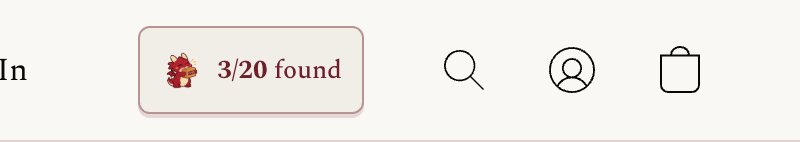
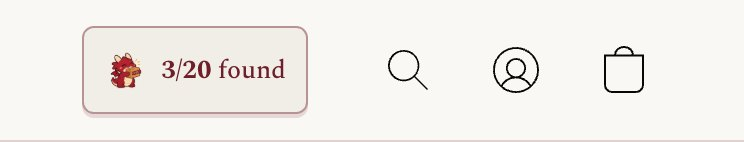
Tighten the guide's composition and drop the counter tooltip
- Every screen: label on top, a same-height picture zone, then the
  headline, so headlines sit at the same spot as you page through.
- Progress dots get their own centered row above Back and the primary
  button, so they never drift and every screen is the same height.
- The 'Tap here' pill stays still; only its arrow moves, inside the pill.
- Recropped the header screenshot to start cleanly at the counter.
- Removed the hover tooltip on the header counter; the guide has it all.

diff --git a/easter-hunt/hunt.css b/easter-hunt/hunt.css
@@ -55,8 +55,7 @@
 .hunt-counter-trigger>.hunt-sticker { width:22px; height:22px; }
 .hunt-counter-count { font-variant-numeric:tabular-nums; font-weight:700; }
 .hunt-counter-preview { font:600 9px/1.3 Arial,sans-serif; text-transform:uppercase; letter-spacing:.06em; color:#655b55; }
-.hunt-counter-preview[hidden],.hunt-counter-tooltip[hidden],.hunt-tour-package[hidden] { display:none!important; }
-.hunt-counter-tooltip { position:fixed; z-index:2147483001; width:min(300px,calc(100vw - 24px)); padding:14px 16px; border:1px solid #d9c9b7; border-radius:8px; color:#241a17; background:#faf8f4; box-shadow:0 8px 24px #24101726; font:400 14px/1.5 Georgia,serif; pointer-events:none; }
+.hunt-counter-preview[hidden],.hunt-tour-package[hidden] { display:none!important; }
 .hunt-counter-local { position:fixed; top:12px; right:12px; z-index:40; margin:0; }
 .hunt-tour,.hunt-tour * { box-sizing:border-box; }
 .hunt-tour:focus { outline:none; }
@@ -107,7 +106,12 @@
 /* Four-screen guide */
 .hunt-intro-dialog { overflow-x:hidden; }
 .hunt-steps { display:grid; }
-.hunt-step { grid-area:1/1; visibility:hidden; opacity:0; }
+.hunt-step { grid-area:1/1; display:flex; flex-direction:column; visibility:hidden; opacity:0; }
+.hunt-step>.hunt-eyebrow { margin:0 0 16px; }
+/* Same-height picture zone on every screen, so the headlines line up as you page through. */
+.hunt-hero { --hero:200px; display:grid; place-items:center; height:var(--hero); margin:0 0 24px; }
+.hunt-hero>* { margin:0!important; }
+.hunt-step h2 { margin-bottom:12px; }
 .hunt-step.is-active { visibility:visible; opacity:1; }
 .hunt-step.from-next { animation:hunt-step-next .42s cubic-bezier(.22,1,.36,1) both; }
 .hunt-step.from-prev { animation:hunt-step-prev .42s cubic-bezier(.22,1,.36,1) both; }
@@ -116,8 +120,9 @@
 .hunt-step.is-active>:nth-child(4) { animation-delay:.15s; } .hunt-step.is-active>:nth-child(5) { animation-delay:.2s; }
 .hunt-step-art { position:relative; display:grid; place-items:center; width:112px; height:112px; margin:0 auto 12px; }
 .hunt-step-art .hunt-sticker { width:100%; height:100%; }
+.hunt-hero .hunt-intro-seal { width:160px; height:160px; }
 .hunt-step.is-active .hunt-intro-seal .hunt-sticker { animation:hunt-bob 3.2s .5s ease-in-out infinite; }
-.hunt-how { display:grid; grid-template-columns:repeat(3,1fr); gap:10px; margin:22px 0 18px; padding:0; list-style:none; }
+.hunt-how { display:grid; grid-template-columns:repeat(3,1fr); gap:10px; width:100%; padding:0; list-style:none; }
 .hunt-how li { display:flex; flex-direction:column; align-items:center; gap:4px; padding:16px 8px 14px; border:1px solid #e3d8ca; border-radius:12px; background:#fffdf9; font-size:13px; line-height:1.35; color:var(--hunt-muted); }
 .hunt-how strong { color:var(--hunt-maroon); font:400 19px/1.2 var(--rrhs-font-title,"Playfair Display"),Georgia,serif; }
 .hunt-how-icon { display:grid; place-items:center; width:46px; height:46px; margin-bottom:6px; border-radius:50%; background:var(--hunt-cream); color:var(--hunt-maroon); }
@@ -127,7 +132,7 @@
 .hunt-step.is-active .hunt-how li:nth-child(2) .hunt-how-icon svg { animation:hunt-tap 1.6s .8s ease-in-out infinite; }
 /* Screen 3: one big magnifier, centered as a whole. The glass drops in once and stays.
    The resting state is the finished look, so reduced motion shows it too. */
-.hunt-step-art.hunt-art-found { width:220px; height:220px; margin:18px auto 26px; }
+.hunt-step-art.hunt-art-found { width:var(--hero); height:var(--hero); }
 .hunt-art-halo { position:absolute; left:6%; top:6%; width:66%; height:66%; border-radius:50%; background:radial-gradient(circle,#f3e7d3 0%,#f3e7d300 70%); transform:scale(1.35); }
 .hunt-art-found .hunt-sticker { position:absolute; left:22.5%; top:22.5%; width:33%!important; height:33%!important; transform:scale(1.6); filter:grayscale(1); opacity:.6; }
 .hunt-art-found .hunt-found-lens { display:block; position:absolute; inset:0; width:100%; height:100%; transform-origin:39.3% 39.3%; filter:drop-shadow(0 6px 12px #24101733); }
@@ -136,16 +141,17 @@
 @keyframes hunt-art-grey { from { filter:none; opacity:1; } }
 @keyframes hunt-art-lens { from { opacity:0; transform:translate(22%,22%) scale(.6) rotate(-24deg); } }
 /* Screen 4: the real top-right of the site, with the counter circled */
-.hunt-where { position:relative; margin:0 -12px 22px; padding:0 0 30px; }
+.hunt-hero>.hunt-where { position:relative; width:calc(100% + 24px); padding:0 0 34px; }
 .hunt-where img { display:block; width:100%; height:auto; border:1px solid #d9c9b7; border-radius:10px; box-shadow:0 10px 30px #24101724; }
 .hunt-where-shot { position:relative; display:block; container-type:inline-size; }
 /* The live count, laid over the number in the screenshot */
-.hunt-where-count { position:absolute; left:26.9%; top:38%; width:7.1%; height:24%; display:flex; align-items:center; background:#f1eee8; color:#6e1f2a; font:700 2.75cqw/1 Georgia,serif; font-variant-numeric:lining-nums tabular-nums; white-space:nowrap; }
-.hunt-where-ring { position:absolute; left:calc(17.2% - 6px); top:calc(18.3% - 6px); width:calc(28.3% + 12px); height:calc(62% + 12px); border:3px solid #c6a169; border-radius:12px; pointer-events:none; }
-.hunt-where-tag { position:absolute; left:31.35%; bottom:0; transform:translateX(-50%); display:inline-flex; align-items:center; gap:4px; padding:3px 10px 3px 6px; border-radius:99px; background:var(--hunt-maroon); color:var(--hunt-paper); font:600 12px/1.4 Arial,sans-serif; white-space:nowrap; }
+.hunt-where-count { position:absolute; left:21.5%; top:38%; width:7.3%; height:24%; display:flex; align-items:center; justify-content:center; background:#f1eee8; color:#6e1f2a; font:700 2.7cqw/1 Georgia,serif; letter-spacing:-.01em; font-variant-numeric:lining-nums tabular-nums; white-space:nowrap; }
+.hunt-where-ring { position:absolute; left:calc(10.9% - 6px); top:calc(18.3% - 6px); width:calc(30.5% + 12px); height:calc(62% + 12px); border:3px solid #c6a169; border-radius:12px; pointer-events:none; }
+.hunt-where-tag { position:absolute; left:26.15%; bottom:0; transform:translateX(-50%); display:inline-flex; align-items:center; gap:5px; padding:4px 11px 4px 8px; border-radius:99px; background:var(--hunt-maroon); color:var(--hunt-paper); font:600 12px/1.4 Arial,sans-serif; white-space:nowrap; }
 .hunt-where-tag svg { width:14px; height:14px; }
 .hunt-step.is-active .hunt-where-ring { animation:hunt-ring 1.8s .5s ease-out infinite; }
-.hunt-step.is-active .hunt-where-tag svg { animation:hunt-nudge-up 1.4s .4s ease-in-out infinite; }
+.hunt-step.is-active .hunt-where-tag svg { animation:hunt-arrow-bob 1.4s .4s ease-in-out infinite; }
+@keyframes hunt-arrow-bob { 0%,100% { transform:translateY(2.5px); } 50% { transform:translateY(-2.5px); } }
 @keyframes hunt-ring { 0% { box-shadow:0 0 0 0 #c6a169bb; } 70%,100% { box-shadow:0 0 0 12px #c6a16900; } }
 /* Dev mode badge */
 .hunt-dev-badge { position:fixed; left:12px; bottom:12px; z-index:2147483000; display:flex; flex-wrap:wrap; align-items:center; gap:4px 10px; max-width:calc(100vw - 24px); padding:8px 8px 8px 14px; border:2px dashed #b28a48; border-radius:10px; background:#fff8e8; color:#3c1720; box-shadow:0 6px 18px #24101733; font:400 13px/1.3 Arial,sans-serif; }
@@ -153,14 +159,16 @@
 .hunt-dev-badge button { min-height:32px; padding:4px 10px; border:1px solid #6e1f2a55; border-radius:6px; background:#fff; color:#6e1f2a; font:600 12px/1 Arial,sans-serif; cursor:pointer; }
 .hunt-dev-badge button:hover { background:#f1e6d4; }
 .hunt-dialog .hunt-dev-code code { display:inline-block; margin:6px 0; padding:4px 10px; border:1px dashed #b28a48; border-radius:4px; background:#fff; color:#6e1f2a; font:700 15px/1.3 ui-monospace,Menlo,monospace; letter-spacing:.04em; }
-.hunt-step-nav { display:flex; align-items:center; justify-content:space-between; gap:12px; margin-top:22px; }
+/* Dots on their own centered row; Back and the primary button below, the same on every screen. */
+.hunt-step-nav { display:grid; grid-template-columns:auto 1fr; grid-template-areas:'dots dots' 'back next'; align-items:center; gap:18px 12px; margin-top:24px; }
+.hunt-dots { grid-area:dots; justify-self:center; } .hunt-step-back { grid-area:back; justify-self:start; } .hunt-step-nav .hunt-step-next { grid-area:next; justify-self:end; }
 .hunt-step-back { display:inline-flex; align-items:center; gap:6px; min-height:44px; padding:0 8px; border:0; background:none; color:var(--hunt-maroon); font:600 15px/1 Georgia,serif; cursor:pointer; }
 .hunt-step-back .hunt-arrow { width:18px; height:18px; }
 .hunt-dots { display:flex; gap:6px; }
 .hunt-dots i { width:7px; height:7px; border-radius:99px; background:#d9c9b7; transition:width .35s cubic-bezier(.22,1,.36,1),background .35s; }
 .hunt-dots i.is-active { width:22px; background:var(--hunt-maroon); }
 .hunt-step-nav .hunt-step-next { width:auto; white-space:nowrap; min-width:118px; transition:min-width .4s cubic-bezier(.22,1,.36,1),transform .2s,filter .2s; }
-.hunt-step-nav .hunt-step-next.hunt-begin { min-width:210px; background:linear-gradient(100deg,var(--hunt-maroon) 30%,#93303f 50%,var(--hunt-maroon) 70%) 0 0/250% 100%; animation:hunt-shine 2.4s ease-in-out infinite; }
+.hunt-step-nav .hunt-step-next.hunt-begin { min-width:220px; background:linear-gradient(100deg,var(--hunt-maroon) 30%,#93303f 50%,var(--hunt-maroon) 70%) 0 0/250% 100%; animation:hunt-shine 2.4s ease-in-out infinite; }
 .hunt-intro-dialog .hunt-confetti i { left:var(--ox,50%); top:var(--oy,85%); width:7px; height:11px; border-radius:2px; }
 .hunt-intro-dialog .hunt-confetti i:nth-child(3n) { background:#c6a169; width:9px; height:9px; border-radius:50%; }
 .hunt-intro-dialog .hunt-confetti i { animation-delay:calc(var(--i)*.025s); animation-duration:1.1s; }
@@ -179,5 +187,5 @@
 @keyframes hunt-begin-pop { 0% { transform:none; } 40% { transform:scale(1.05); } 100% { transform:none; } }
 @keyframes hunt-intro-leave { to { opacity:0; transform:translateY(-14px) scale(.94); } }
 @keyframes hunt-counter-pulse { 0% { box-shadow:0 0 0 0 #c6a169cc; } 100% { box-shadow:0 0 0 14px #c6a16900; } }
-@media(max-width:420px) { .hunt-how { gap:6px; } .hunt-how li { padding:12px 4px; font-size:12px; } .hunt-step-nav.is-last { flex-wrap:wrap; } .hunt-step-nav.is-last .hunt-step-next { order:-1; flex:1 1 100%; min-width:0; } .hunt-step-nav .hunt-step-next { min-width:0; } }
+@media(max-width:420px) { .hunt-how { gap:6px; } .hunt-how li { padding:12px 4px; font-size:12px; } .hunt-hero { --hero:168px; } .hunt-hero .hunt-intro-seal { width:132px; height:132px; } .hunt-step-nav .hunt-step-next { min-width:0; } }
 @media(prefers-reduced-motion:reduce) { .hunt-egg,.hunt-dialog,.hunt-dialog *,.hunt-tour *,.hunt-counter * { animation:none!important; transition:none!important; } .hunt-confetti { display:none; } }

diff --git a/easter-hunt/experience.js b/easter-hunt/experience.js
@@ -6,9 +6,9 @@
   const local = ['localhost', '127.0.0.1', '[::1]'].includes(location.hostname);
   const motion = matchMedia('(prefers-reduced-motion: reduce)');
   const stickerImage = window.RRHS_EASTER_HUNT.stickerImage;
-  const headerGuide = new URL('hunt-header-guide.jpg?v=1', document.currentScript.src).href;
+  const headerGuide = new URL('hunt-header-guide.jpg?v=2', document.currentScript.src).href;
   const arrowIcon = window.RRHS_EASTER_HUNT.arrowIcon;
-  let counter, tooltip, tour, intro, timer, frame, scheduled = false, oldOverflow, returnFocus, header;
+  let counter, tour, intro, timer, frame, scheduled = false, oldOverflow, returnFocus, header;
   let data = window.RRHS_EASTER_HUNT?.getAvailability(), suspended = 0;
   const enabled = () => window.RRHS_HUNT_ACTIVE === true;
   // The intro replays on every page load. Only our screenshot tools switch it off.
@@ -32,15 +32,6 @@
     if (count.textContent !== value) count.textContent = value;
     counter.querySelector('.hunt-counter-preview').hidden = !preview;
     counter.querySelector('button').setAttribute('aria-label', `${preview ? 'Preview. ' : ''}${found} of ${TOTAL} dragon stickers found across the hunt. ${remaining} remaining. Learn about the package hunt.`);
-    tooltip.textContent = sample
-      ? 'Look for the red dragon sticker holding a CO-OP package. Twenty are hidden around the website. The deeper you dig, the bigger the reward. Select this button to read the hunt details.'
-      : `${preview ? 'Local development preview. ' : ''}${found} of ${TOTAL} hidden dragon stickers have been claimed across the hunt. ${remaining} rewards remain. Find the dragon holding a CO-OP package for a mystery reward. One reward per person. Select to read the hunt details again.`;
-  }
-  function placeTooltip() {
-    if (!counter || !tooltip || tooltip.hidden) return;
-    const bounds = counter.getBoundingClientRect();
-    tooltip.style.top = `${bounds.bottom + 10}px`;
-    tooltip.style.left = `${Math.max(12, Math.min(innerWidth - Math.min(300, innerWidth - 24) - 12, bounds.right - 300))}px`;
   }
   function mountCounter() {
     if (!enabled()) return;
@@ -49,15 +40,9 @@
     if (counter?.isConnected && (!search || counter.nextElementSibling === search)) return;
     if (!counter) {
       counter = document.createElement('div'); counter.className = 'hunt-counter';
-      counter.innerHTML = `<button type="button" class="hunt-counter-trigger" aria-haspopup="dialog" aria-describedby="hunt-counter-tip" title="Read the hunt details">${stickerImage}<span><span class="hunt-counter-count" aria-live="polite">0/${TOTAL}</span><span class="hunt-counter-label"> found</span></span><span class="hunt-counter-preview">Preview</span></button>`;
-      tooltip = document.createElement('div'); tooltip.id = 'hunt-counter-tip'; tooltip.className = 'hunt-counter-tooltip';
-      tooltip.setAttribute('role', 'tooltip'); tooltip.hidden = true; document.body.append(tooltip);
-      const show = () => { tooltip.hidden = false; placeTooltip(); };
-      const hide = () => { tooltip.hidden = true; };
-      counter.addEventListener('pointerenter', show); counter.addEventListener('pointerleave', hide);
-      counter.addEventListener('focusin', show); counter.addEventListener('focusout', hide);
-      counter.addEventListener('keydown', event => { if (event.key === 'Escape') { hide(); event.stopPropagation(); } });
-      counter.querySelector('button').addEventListener('click', () => { hide(); showInformation(); });
+      counter.innerHTML = `<button type="button" class="hunt-counter-trigger" aria-haspopup="dialog">${stickerImage}<span><span class="hunt-counter-count" aria-live="polite">0/${TOTAL}</span><span class="hunt-counter-label"> found</span></span><span class="hunt-counter-preview">Preview</span></button>`;
+      // No hover tooltip: the button opens the guide, which has all the details.
+      counter.querySelector('button').addEventListener('click', showInformation);
     }
     if (search) {
       header?.classList.remove('hunt-header-active'); header = search.closest('.ins-header'); header.classList.add('hunt-header-active');
@@ -92,26 +77,26 @@
     const { found, remaining, preview } = counterState();
     const dragon = stickerImage.replace('alt=""', 'alt="Red CO-OP dragon holding a package"');
     const steps = [
-      `<div class="hunt-step-art hunt-intro-seal">${dragon}</div>
-       <p class="hunt-eyebrow">This is what you’re looking for</p>
+      `<p class="hunt-eyebrow">This is what you’re looking for</p>
+       <div class="hunt-hero"><div class="hunt-step-art hunt-intro-seal">${dragon}</div></div>
        <h2>Good things hide<br>in plain sight.</h2>
        <p>${TOTAL} CO-OP dragons are hiding around this website. The deeper the page, the bigger the reward.</p>
        <div class="hunt-intro-rules"><span><strong>${TOTAL}</strong> hidden dragons</span><span><strong>10–35%</strong> off</span><span><strong>1</strong> per person</span></div>`,
       `<p class="hunt-eyebrow">How to claim</p>
-       <h2>Spot it. Tap it.<br>Claim it.</h2>
-       <ol class="hunt-how">
+       <div class="hunt-hero"><ol class="hunt-how">
          <li><span class="hunt-how-icon">${stickerImage}</span><strong>Spot</strong><span>a dragon on any page</span></li>
          <li><span class="hunt-how-icon">${tapIcon}</span><strong>Tap</strong><span>the sticker</span></li>
          <li><span class="hunt-how-icon">${mailIcon}</span><strong>Claim</strong><span>with your S&#8209;number</span></li>
-       </ol>
+       </ol></div>
+       <h2>Spot it. Tap it.<br>Claim it.</h2>
        <p class="hunt-intro-hint">Teachers and staff: use your @roundrockisd.org email. Your code arrives in your school inbox.</p>`,
       `<p class="hunt-eyebrow">First come, first served</p>
-       <div class="hunt-step-art hunt-art-found" aria-hidden="true"><span class="hunt-art-halo"></span>${stickerImage}${window.RRHS_EASTER_HUNT.lensIcon}</div>
+       <div class="hunt-hero"><div class="hunt-step-art hunt-art-found" aria-hidden="true"><span class="hunt-art-halo"></span>${stickerImage}${window.RRHS_EASTER_HUNT.lensIcon}</div></div>
        <h2>Once it’s found,<br>it’s gone.</h2>
        <p>The first person to claim a dragon keeps it. Everyone else sees it under a magnifying glass.</p>`,
-      `<figure class="hunt-where"><span class="hunt-where-shot"><img src="${headerGuide}" width="800" height="142" alt="The top right of the CO-OP website. The dragon counter sits just left of the search, account and cart icons." decoding="async">
-         <span class="hunt-where-count" aria-hidden="true">${found}/${TOTAL}</span><span class="hunt-where-ring" aria-hidden="true"></span></span><span class="hunt-where-tag" aria-hidden="true">${upIcon}Tap here</span></figure>
-       <p class="hunt-eyebrow">Look up, top right</p>
+      `<p class="hunt-eyebrow">Look up, top right</p>
+       <div class="hunt-hero"><figure class="hunt-where"><span class="hunt-where-shot"><img src="${headerGuide}" width="744" height="142" alt="The top right of the CO-OP website. The dragon counter sits just left of the search, account and cart icons." decoding="async">
+         <span class="hunt-where-count" aria-hidden="true">${found}/${TOTAL}</span><span class="hunt-where-ring" aria-hidden="true"></span></span><span class="hunt-where-tag" aria-hidden="true">${upIcon}Tap here</span></figure></div>
        <h2>Come back<br>anytime.</h2>
        <p>Tap the dragon counter in the top right of your page beside search and cart to reopen this guide and see how many are left.</p>
        ${preview ? '<p class="hunt-preview">Local development preview. No real coupon is issued.</p>' : `<p class="hunt-intro-tally">${remaining} of ${TOTAL} dragons still hiding</p>`}`,
@@ -290,19 +275,17 @@
   document.addEventListener('rrhs-hunt-availability', event => { data = event.detail; updateCounter(); });
   document.addEventListener('rrhs-hunt-toggle', event => {
     if (event.detail.enabled) activate();
-    else { dismiss(); counter?.remove(); tooltip?.remove(); header?.classList.remove('hunt-header-active'); counter = tooltip = header = null; scheduled = false; suspended = 0; }
+    else { dismiss(); counter?.remove(); header?.classList.remove('hunt-header-active'); counter = header = null; scheduled = false; suspended = 0; }
   });
   if (window.RRHS_RUNTIME) window.RRHS_RUNTIME.onDomChanged(mountCounter);
   else new MutationObserver(mountCounter).observe(document.body, { childList: true, subtree: true });
   // Rotating a phone mid-intro restarts it at the new size instead of ending it.
   let lastWidth = innerWidth, restart;
   addEventListener('resize', () => {
-    placeTooltip();
     if (!tour || innerWidth === lastWidth) return;
     lastWidth = innerWidth; clearTimeout(restart);
     restart = setTimeout(() => { if (tour && !tour.classList.contains('hunt-tour-transitioning')) { stopTour(); start(); } }, 250);
   });
-  addEventListener('scroll', placeTooltip, { passive: true });
   motion.addEventListener('change', () => { if (motion.matches && tour) introduction(true); });
   window.RRHS_HUNT_INTRO = { replay: start, open: showInformation, dismiss };
   if (enabled()) activate();

diff --git a/easter-hunt/boot.js b/easter-hunt/boot.js
@@ -48,9 +48,9 @@
     window.RRHS_HUNT_ACTIVE = enabled;
     if (!window.RRHS_HUNT_ACTIVE) return;
     const css = document.createElement('link'); css.rel = 'stylesheet';
-    css.href = new URL('hunt.css?v=19', base).href;
+    css.href = new URL('hunt.css?v=21', base).href;
     const styled = new Promise((resolve, reject) => { css.onload = resolve; css.onerror = reject; document.head.append(css); });
-    loading = styled.then(() => load('hunt.js?v=16')).then(() => topLevel ? load('experience.js?v=20') : undefined)
+    loading = styled.then(() => load('hunt.js?v=16')).then(() => topLevel ? load('experience.js?v=22') : undefined)
       .then(() => document.dispatchEvent(new CustomEvent('rrhs-hunt-toggle', { detail: { enabled: true } }))).catch(() => {});
     broadcast();
   }

diff --git a/iframes/teachers/index.html b/iframes/teachers/index.html
@@ -117,6 +117,6 @@
 <footer class="credits wrap"><span>RRHS CO-OP / Faculty reference &amp; student advisory resource</span><a href="https://unsplash.com/photos/jKmdjT7aQJA" target="_blank" rel="noopener noreferrer">Hero photo: Kawê Rodrigues / Unsplash<span class="sr-only"> (opens in a new tab)</span></a></footer>
 <script src="teachers.js?live=1"></script>
 <script src="/iframes/embed-resize.js?v=1"></script>
-<script src="/easter-hunt/boot.js?v=24"></script>
+<script src="/easter-hunt/boot.js?v=26"></script>
 </body>
 </html>

diff --git a/index.js b/index.js
@@ -116,7 +116,7 @@
   const inventoryGuardEnabled = false;
 
   const scripts = [
-    url('easter-hunt/boot.js?v=24'),
+    url('easter-hunt/boot.js?v=26'),
     url('custom-visuals/rrhs-embed-bridge.js?v=6'),
     url('rrhs-runtime.js'),
     url('custom-visuals/rrhs-faq-sticky-nav.js?v=5'),

diff --git a/iframes/projects/index.html b/iframes/projects/index.html
@@ -137,7 +137,7 @@
   </dialog>
 
   <script src="projects.js?v=9"></script>
-  <script src="/easter-hunt/boot.js?v=24"></script>
+  <script src="/easter-hunt/boot.js?v=26"></script>
 <script src="/iframes/embed-resize.js?v=1"></script>
 </body>
 </html>

diff --git a/iframes/faq/index.html b/iframes/faq/index.html
@@ -314,7 +314,7 @@
   </section>
 
   <script src="faq.js?v=7"></script>
-  <script src="/easter-hunt/boot.js?v=24"></script>
+  <script src="/easter-hunt/boot.js?v=26"></script>
 <script src="/iframes/embed-resize.js?v=1"></script>
 </body>
 </html>

diff --git a/iframes/why-coop/index.html b/iframes/why-coop/index.html
@@ -328,7 +328,7 @@
       }
     }());
   </script>
-<script src="/easter-hunt/boot.js?v=24"></script>
+<script src="/easter-hunt/boot.js?v=26"></script>
 <script src="/iframes/embed-resize.js?v=1"></script>
 </body>
 </html>

diff --git a/iframes/leadership/index.html b/iframes/leadership/index.html
@@ -891,6 +891,6 @@
     }());
   </script>
 <script src="/iframes/embed-resize.js?v=1"></script>
-<script src="/easter-hunt/boot.js?v=24"></script>
+<script src="/easter-hunt/boot.js?v=26"></script>
 </body>
 </html>
